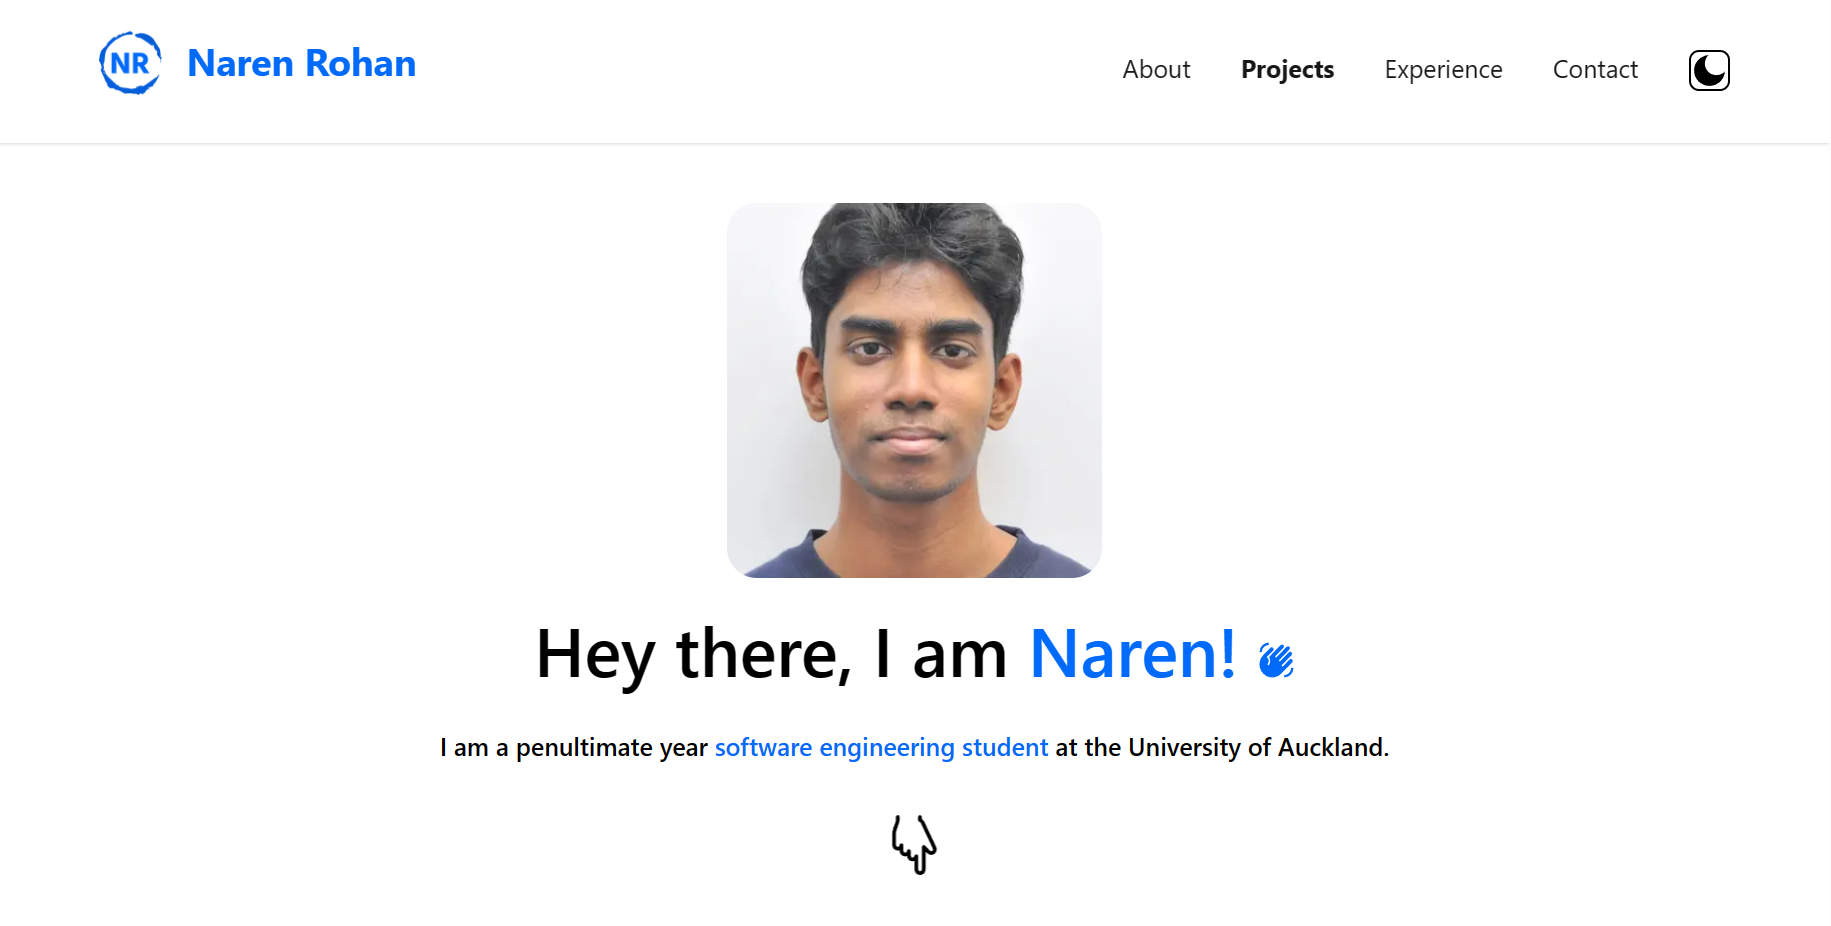
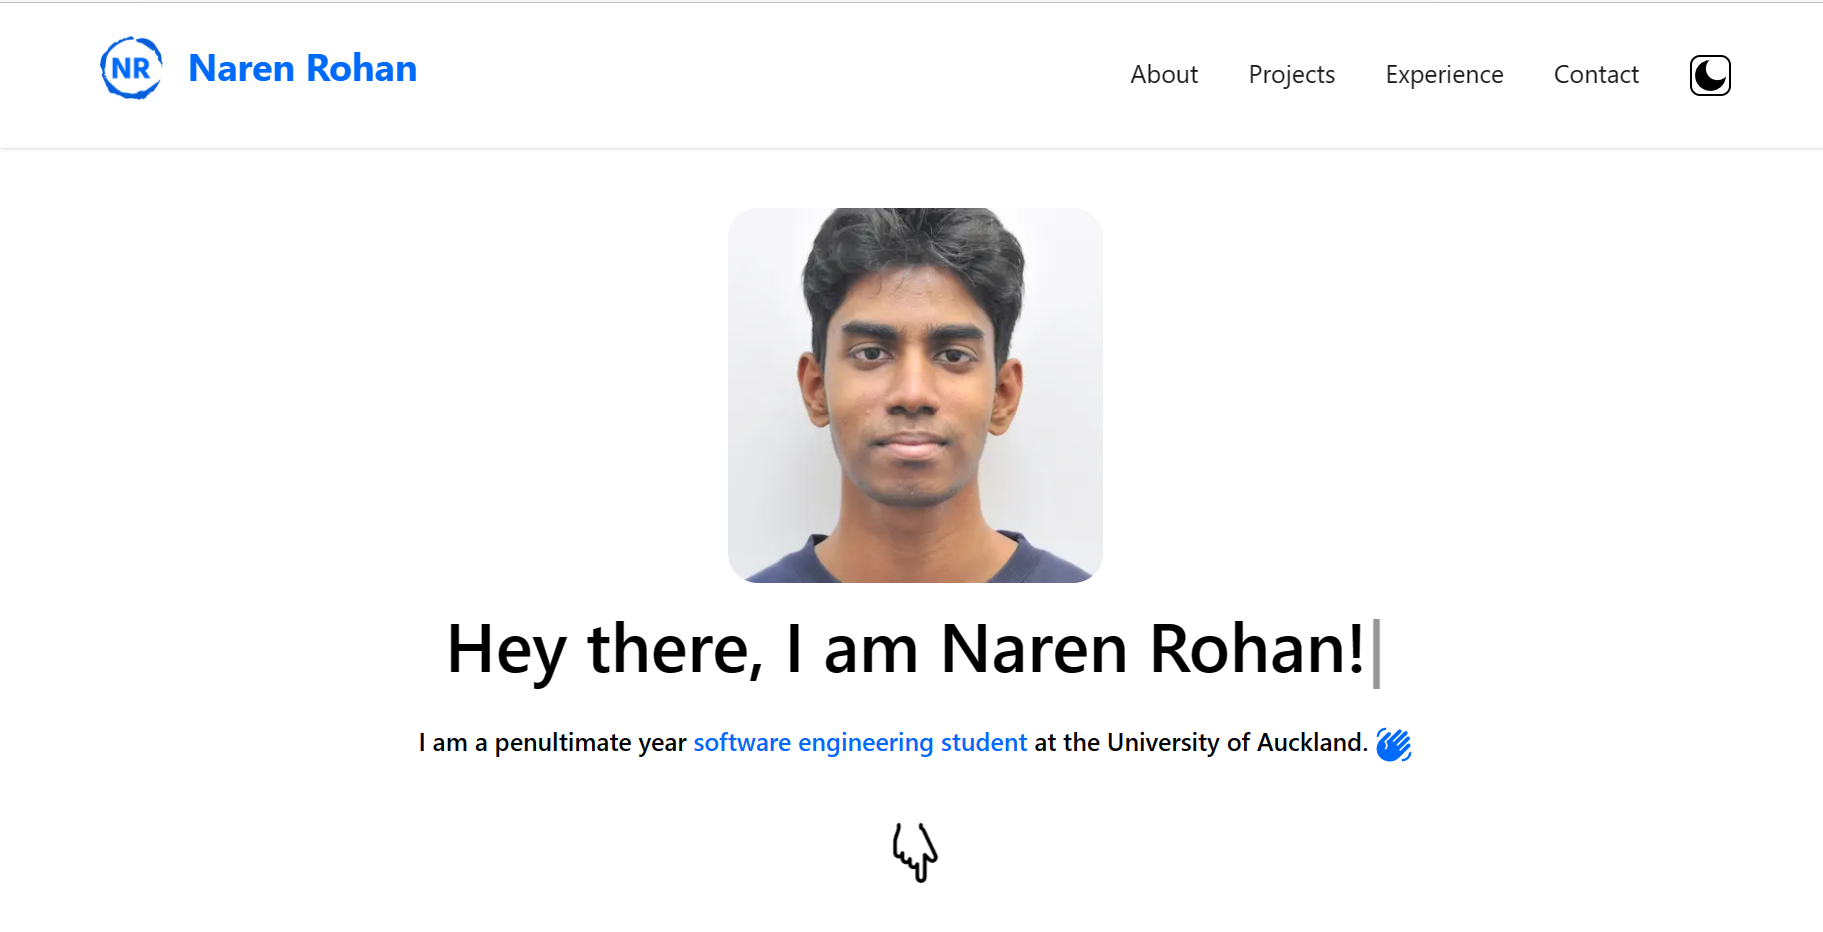
Used the react-typed package

diff --git a/components/Projects.tsx b/components/Projects.tsx
@@ -3,6 +3,7 @@ import React from "react";
 import Image from "next/image";
 import Link from "next/link";
 import { BsGithub } from "react-icons/bs";
+import Typed from "react-typed"
 
 const projects = [
   {
@@ -38,11 +39,15 @@ const projects = [
 const Projects = () => {
   return (
     <section className="sm: pt-20" id="projects">
-      <div className="my-10 pb-10 lg:pt-10 lg:pb-10">
-        <h1 className="text-center font-bold text-4xl">
-          Projects
-          <hr className="w-10 h-1 mx-auto my-4 bg-blue-700 border-0 rounded"></hr>
-        </h1>
+      <div className="text-center my-10 pb-10 lg:pt-10 lg:pb-10">
+      <Typed
+           className="font-bold text-4xl"
+           strings = {["Projects"]}
+           typeSpeed={40}
+           backSpeed={60}
+           loop
+        />
+        <hr className="w-10 h-1 mx-auto my-4 bg-blue-700 border-0 rounded"></hr>
         <div className="flex flex-col space-y-5">
           {projects.map((project, index) => {
             return (
@@ -62,14 +67,12 @@ const Projects = () => {
                     <p className="text-xl leading-7 mb-8 text-neutral-700 dark:text-neutral-100">
                       {project.description}
                     </p>
-                    <div>
-                      <Link href={project.github} target="_blank">
+                    <Link href={project.github} target="_blank">
                         <BsGithub
                           size={30}
-                          className="hover:-translate-y-1 transition-transform cursor-pointer"
+                          className="float-right hover:-translate-y-1 transition-transform cursor-pointer"
                         />
                       </Link>
-                    </div>
                   </div>
                 </div>
               </div>

diff --git a/components/Hero.tsx b/components/Hero.tsx
@@ -4,6 +4,7 @@ import Image from "next/image";
 import { Link } from "react-scroll";
 import {TfiHandPointDown} from "react-icons/tfi"
 import{MdWavingHand} from "react-icons/md"
+import Typed from "react-typed"
 
 const Hero = () => {
   return (
@@ -19,11 +20,13 @@ const Hero = () => {
           />
         </div>
         <div>
-          <h1 className="font-semibold lg:text-[55px] sm:text-[50px] xs:text-[40px] text-[30px] lg:leading-[98px] mt-2">
-            Hey there, I am <span className="text-[#006AFA]">Naren! <MdWavingHand className = "inline-block" size = {30}></MdWavingHand></span>
-          </h1>
+          <Typed 
+             className="font-semibold lg:text-[55px] sm:text-[50px] xs:text-[40px] text-[30px] lg:leading-[98px] mt-2"
+             strings={["Hey there, I am Naren Rohan!"]}
+             typeSpeed={40}
+            />
           <p className= "font-medium lg:text-[20px] sm:text-[20px] xs:text-[20px] text-[16px] lg:leading-[40px] mt-2">
-            I am a penultimate year <span className = "text-[#006AFA]">software engineering student </span> at the University of Auckland.
+            I am a penultimate year <span className = "text-[#006AFA]">software engineering student </span> at the University of Auckland. <span><MdWavingHand className = "text-[#006AFA] inline-block" size = {30}></MdWavingHand></span>
           </p>
         </div>
         <div className="flex flex-row justify-center mt-10">

diff --git a/components/About.tsx b/components/About.tsx
@@ -4,6 +4,7 @@ import Image from "next/image";
 import { Link } from "react-scroll";
 import { TfiHandPointDown } from "react-icons/tfi";
 import { BsGithub } from "react-icons/bs";
+import Typed from "react-typed"
 
 const skills = [
   {
@@ -63,11 +64,15 @@ const skills = [
 const About = () => {
   return (
     <section className="sm:pt-20" id="about">
-      <div className="my-10 pb-10 lg:pt-10 lg:pb-10">
-        <h1 className="text-center font-bold text-4xl">
-          About Me!
-          <hr className="w-10 h-1 mx-auto my-4 bg-blue-700 border-0 rounded"></hr>
-        </h1>
+      <div className="text-center my-10 pb-10 lg:pt-10 lg:pb-10">
+        <Typed
+           className="font-bold text-4xl"
+           strings = {["About Me!"]}
+           typeSpeed={40}
+           backSpeed={60}
+           loop
+        />
+        <hr className="w-10 h-1 mx-auto my-4 bg-blue-700 border-0 rounded"></hr>
         <div className="flex flex-col space-y-5 items-stretch jusitfy-center align-top md:flex-row md:text-left md:p-4 md:space-y-0 md:space-x-10">
           <div>
             <h1 className="text-center text-2xl font-bold mb-6 md:text-left">
